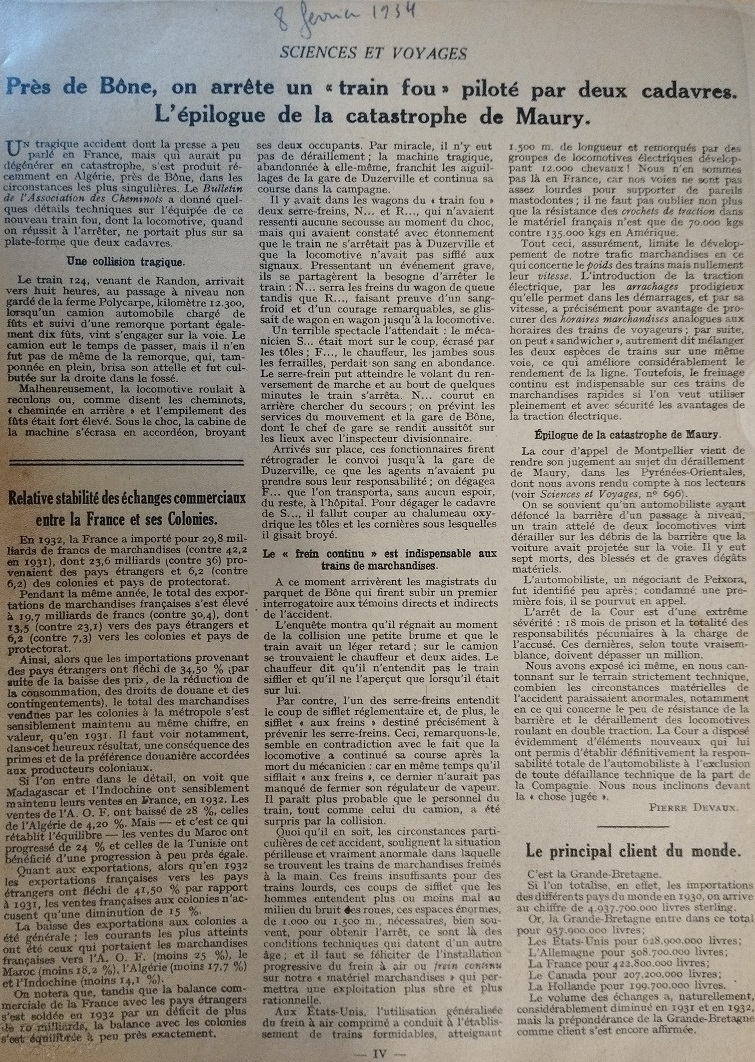
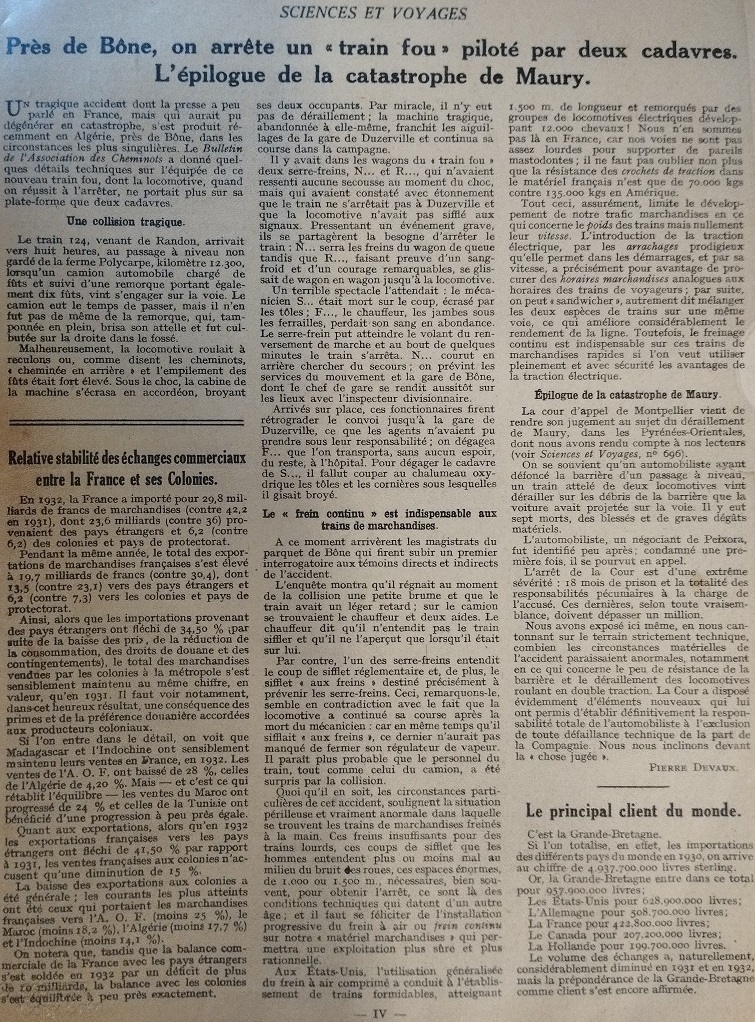
article épilogue accident de maury

diff --git a/voie-ferree-historique/accident1932.html b/voie-ferree-historique/accident1932.html
@@ -10,7 +10,7 @@
     <link rel="shortcut icon" href="../st-martin.gif">
   </head>
   <body>
-	<h1>Voie ferrée Rivesaltes / Carcassonne<br>Accident du 16 décembre 1932<br>revue de presse</h1>
+	<h1>Voie ferrée Quillan / Rivesaltes<br>Accident du 16 décembre 1932<br>Revue de presse</h1>
        <img src="articles1932/IMG_20231104_154736.jpg" alt="locomotive déraillée" width="400" height="245">
       <p>Pour alléger la page sur l'<a href="https://teuliere.github.io/voie-ferree-historique/voie-ferree-historique.html">historique de voie ferrée</a> je crée cette première annexe - qui sera surement suivie de beaucoup d'autres... avec tout ce que je viens de collecter aux archives départementales</p>
          <h2>16/12/1932 - déraillement au passage à niveau de Maury - photos de l'accident<sup><a href="#ref5">5</a></sup></h2>
@@ -141,16 +141,20 @@ Les premiers secours ont été portés par les habitants de Maury, sous une plui
           La Croix de l'Aveyron 25/12/1932</a><sup>4</sup><br>
      <img src="articles1932/25121932La_Croix_de_l'Aveyron___%5B...%5D_bpt6k2398311w_2.jpg" alt="article de La Croix de l'Aveyron" width="500" height="451"></li>
           
-          <li>Sciences et voyages 29/12/1932<sup>5</sup><br></li>
+          <li>Sciences et voyages n° 696 du 29/12/1932<sup>5</sup><br></li>
      <img src="articles1932/IMG_20231104_154905.jpg" alt="article de Sciences et voyages du 29 12 1932" width="759" height="1056">
-          <li>Sciences et voyages 08/02/1934<sup>5</sup><br></li>
-     <img src="articles1932/IMG_20231104_154913.jpg" alt="article de Sciences et voyages du 8 02 1934" width="755" height="1062">
+          <li>Sciences et Voyages n° 713 du 27/04/1933<sup>5</sup><br></li>
+     <img src="articles1932/IMG_20231104_154913.jpg" alt="article de Sciences et voyages du 27 04 1933" width="755" height="1022">
       </ul>   
                 <hr>
       <p>
       <sup>4</sup>gallica.bnf.fr - Bibliothèque de France<br>
       <sup id="ref5">5</sup>Collection Paul Dumanois<br>
       </p>
+      
+      <h2>Plaque commémorative</h2>
+      Photo à suivre ?
+<p>Posée pour le 75 anniversaire de l'accident, mentionné sur <a href="https://www.trainsdumidi.com/t1610-souvenir-de-l-accident-de-maury">le site du train du midi</a></p>
       <hr>
             
     <h2>Commentaires</h2>
